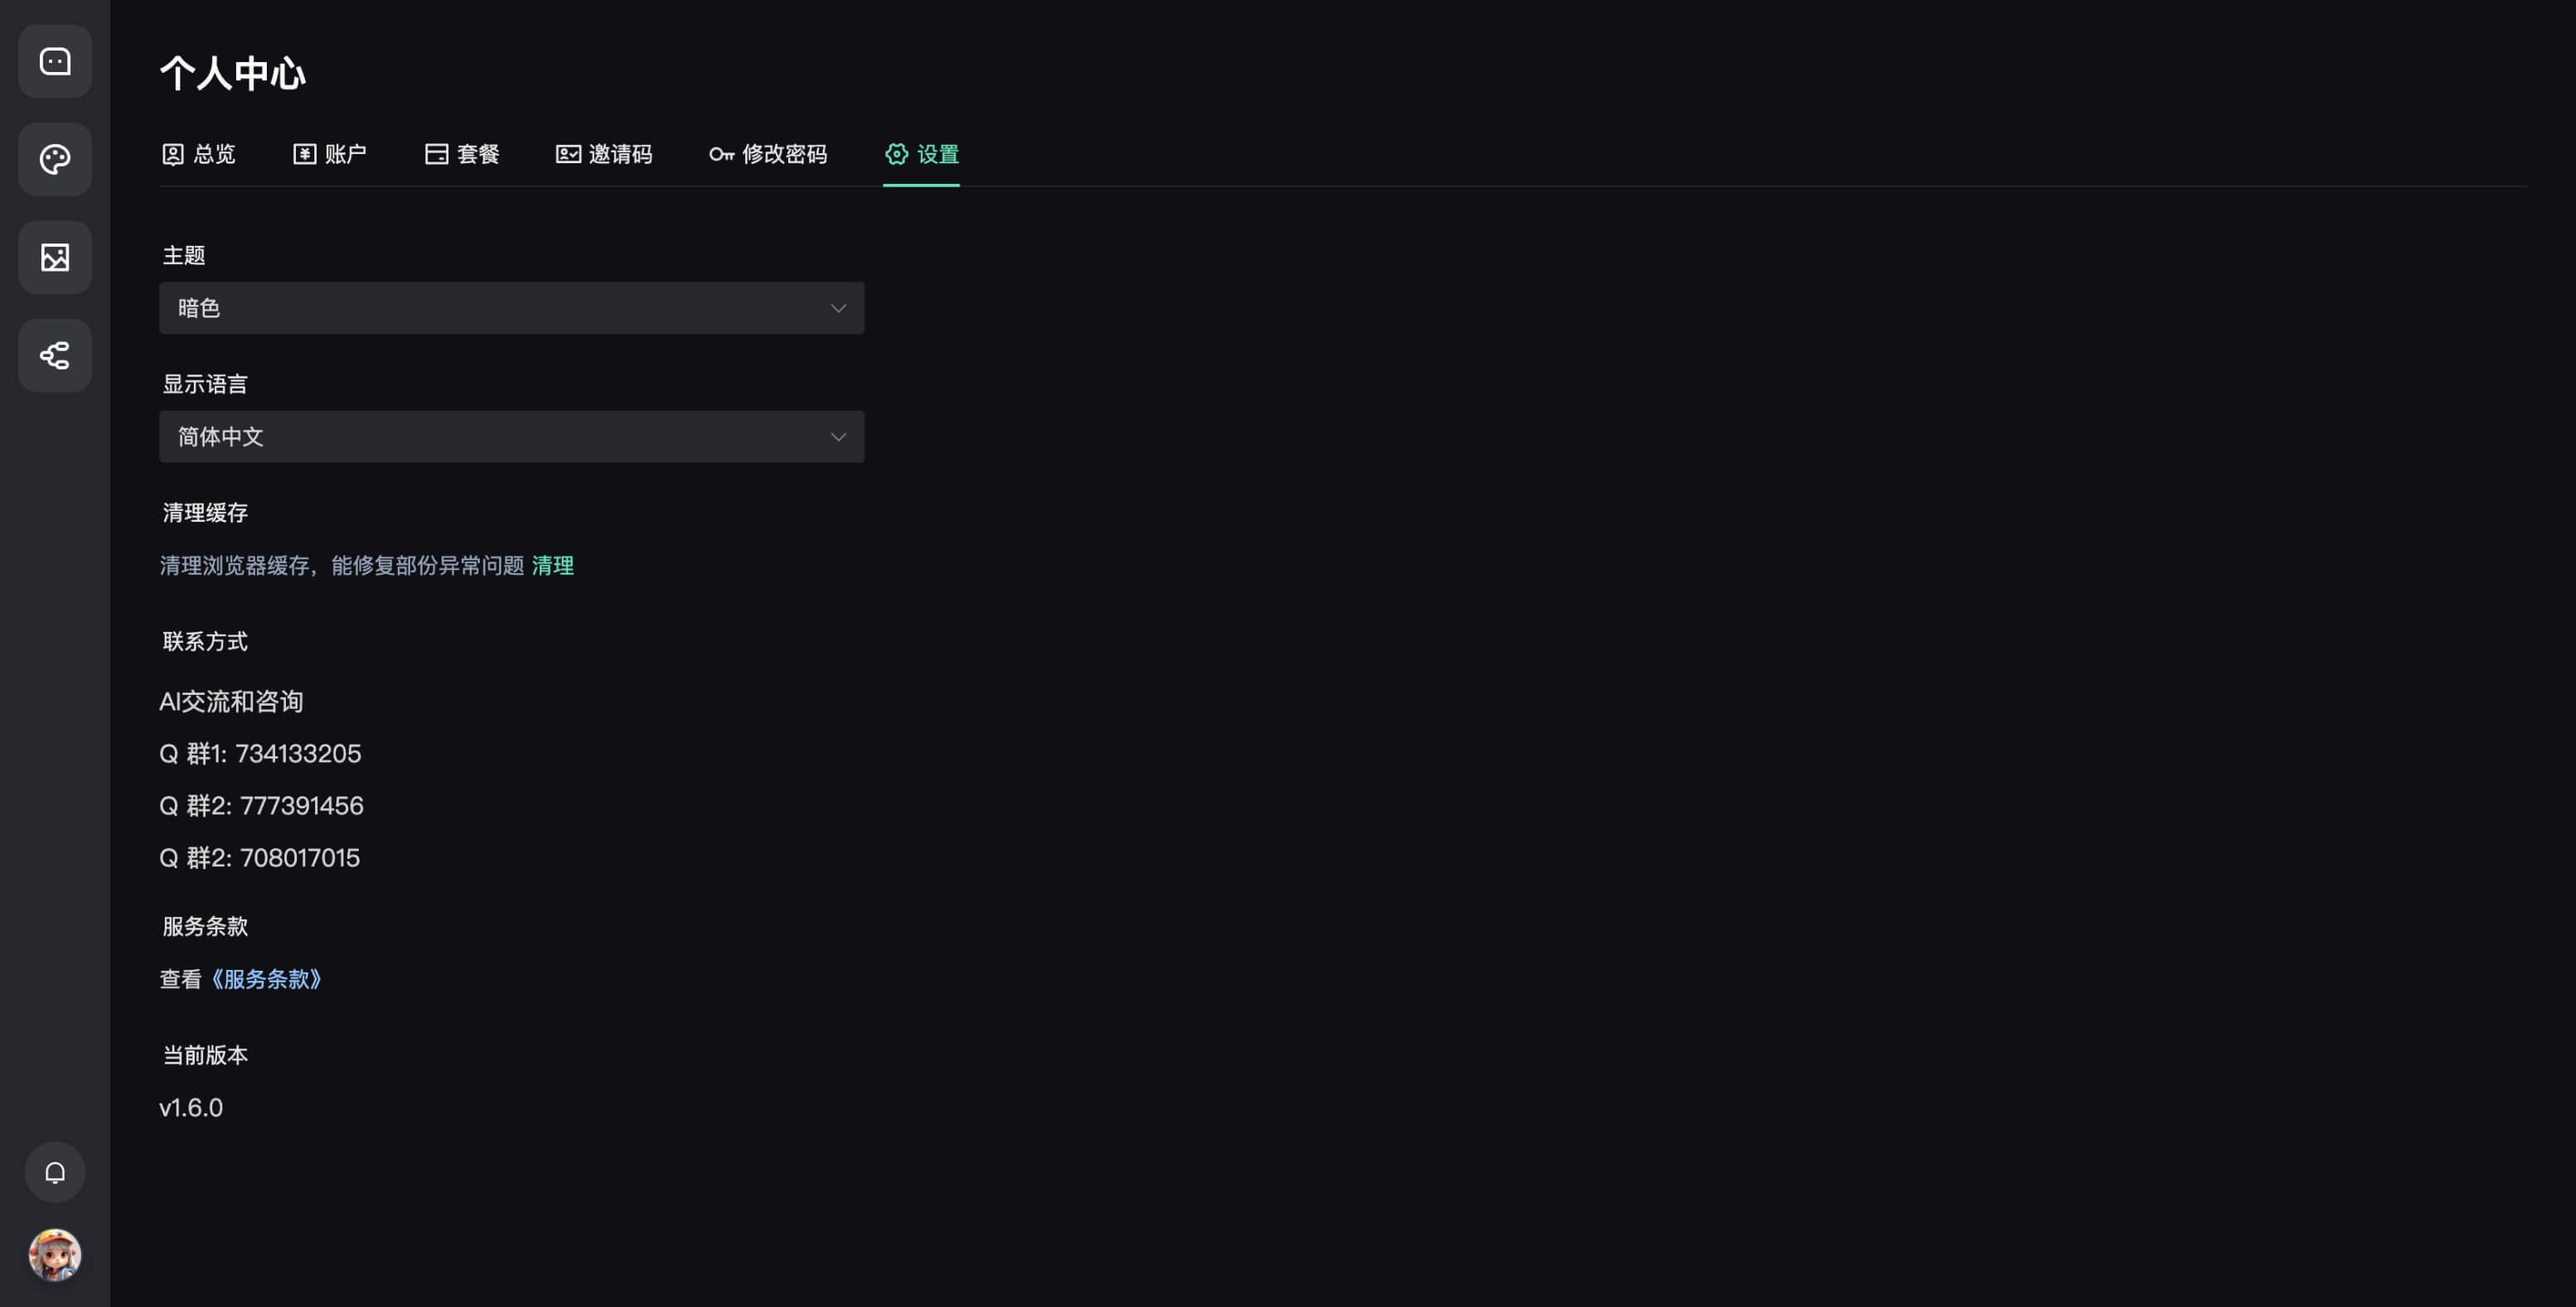
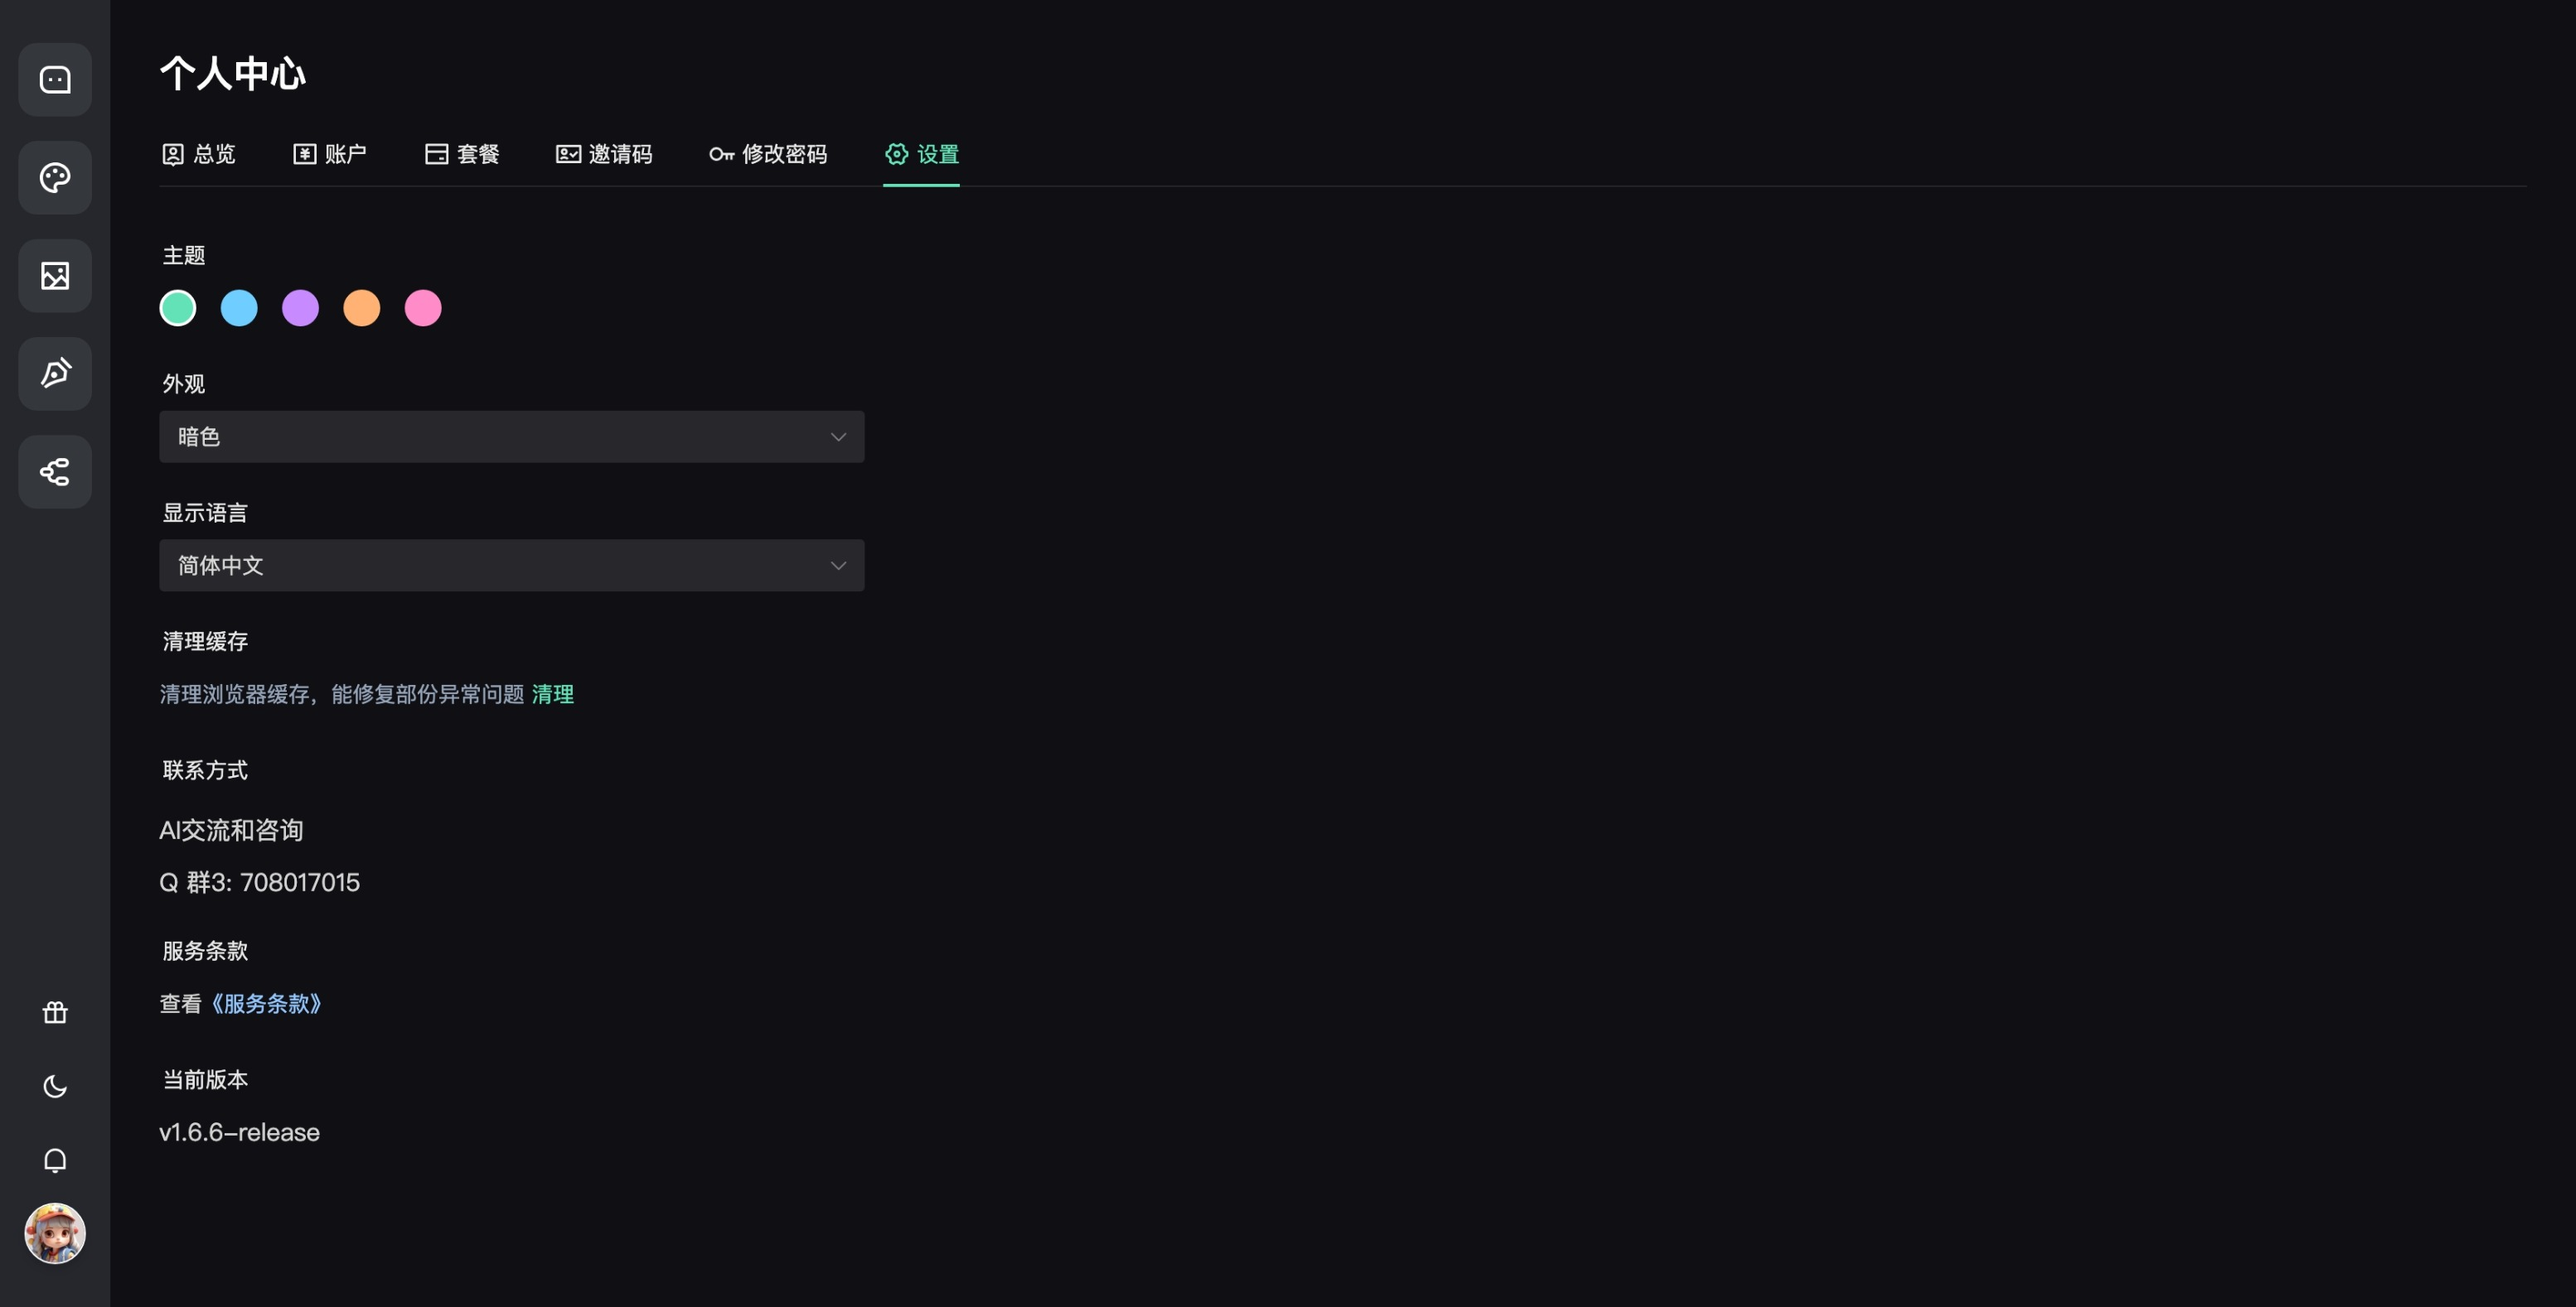
chore: update docs

diff --git a/README.md b/README.md
@@ -34,6 +34,8 @@
 
 [✓] 单点登录
 
+[✓] 主题颜色
+
 [✓] AI 绘画（单独付费模块）
 
 [✓] 画廊
@@ -91,6 +93,9 @@ Q 群 3：708017015（可能满）
 ![image](docs/1.jpeg)
 ![image](docs/2.jpeg)
 ![image](docs/3.jpeg)
+![image](docs/3-1.jpeg)
+![image](docs/3-2.jpeg)
+![image](docs/3-3.jpeg)
 ![image](docs/4.jpeg)
 ![image](docs/5.jpeg)
 ![image](docs/6.jpeg)
@@ -111,4 +116,4 @@ Q 群 3：708017015（可能满）
 ![image](docs/19.jpeg)
 
 后台管理
-![后台](docs/admin.jpeg)
+![后台](docs/admin.png)
